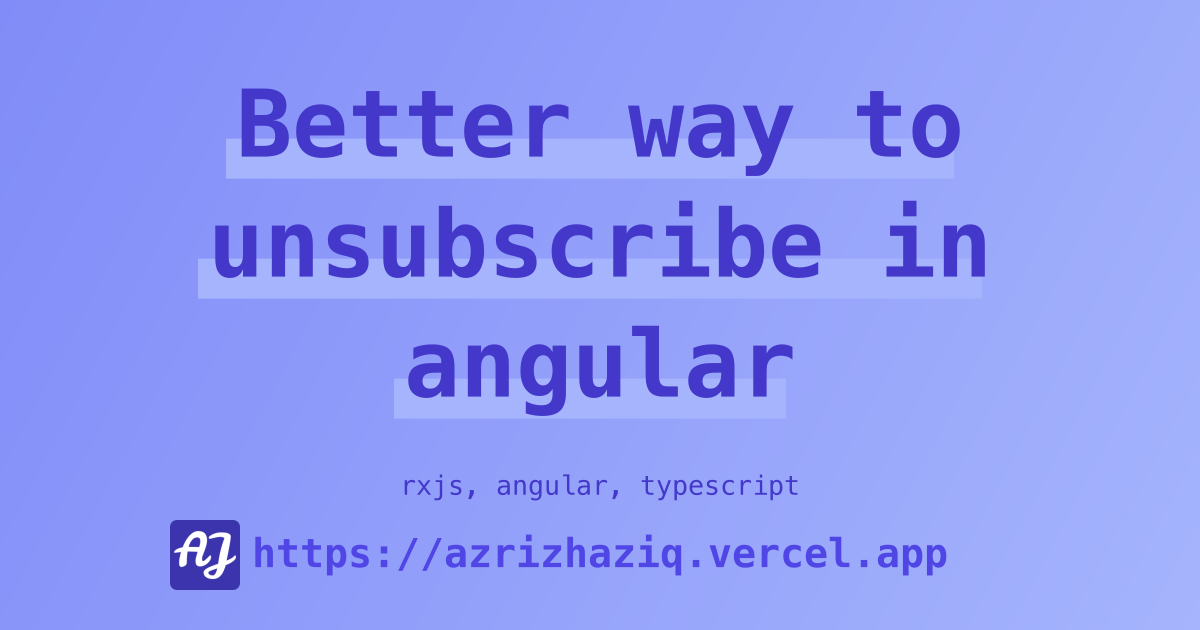
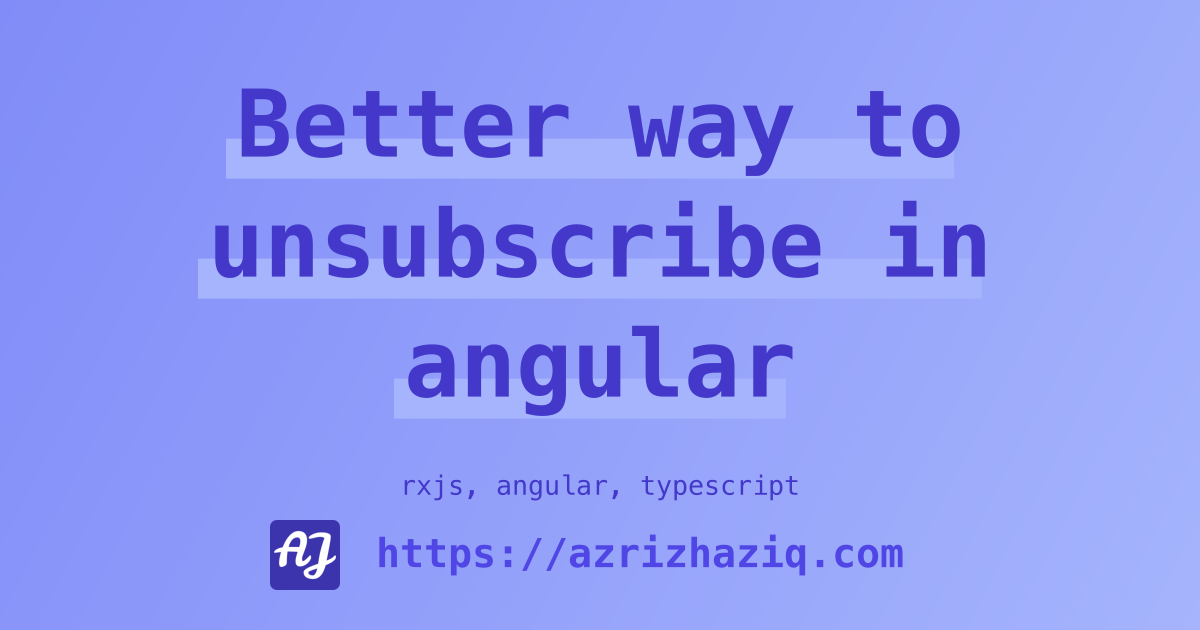
Update domain to azrizhaziq.com
- blog that is published: false will not available at prod env

Changed region(s): [[0.1233, 0.8143, 0.8017, 0.9349]]

diff --git a/helpers/server/get_custom_post.ts b/helpers/server/get_custom_post.ts
@@ -13,22 +13,30 @@ export const getSourceOfFile = (folderName: string) => {
 }
 
 export const getAllCustomPosts = (): Custom.Post[] => {
-  return fs.readdirSync(POSTS_PATH).map(file => {
-    const [published_timestamp, slug] = file.split('_')
-    const source = getSourceOfFile(file)
-    const { data, content } = matter(source)
+  return fs
+    .readdirSync(POSTS_PATH)
+    .map(file => {
+      const [published_timestamp, slug] = file.split('_')
+      const source = getSourceOfFile(file)
+      const { data, content } = matter(source)
 
-    return {
-      type: 'custom_post',
-      id: uuid(),
-      slug,
-      mdxSource: '',
-      reading_time: readingTime(content),
-      published_timestamp: new Date(published_timestamp).toJSON(),
-      title: slug.replace(/-/g, ' '),
-      ...(data as { description: string; tag_list: string[] }),
-    }
-  })
+      // if article is not published and its on production then don't show it
+      if (!data.published && process.env.NODE_ENV === 'production') {
+        return null as any
+      }
+
+      return {
+        type: 'custom_post',
+        id: uuid(),
+        slug,
+        mdxSource: '',
+        reading_time: readingTime(content),
+        published_timestamp: new Date(published_timestamp).toJSON(),
+        title: slug.replace(/-/g, ' '),
+        ...(data as { tag_list: string[]; description: string; published: boolean }),
+      }
+    })
+    .filter(Boolean)
 }
 
 export const getSinglePost = async (slug: string): Promise<Custom.Post> => {
@@ -46,6 +54,11 @@ export const getSinglePost = async (slug: string): Promise<Custom.Post> => {
     const source = getSourceOfFile(`${published_timestamp}_${slug}`)
     const { data, content } = matter(source)
 
+    // if article is not published and its on production then don't show it
+    if (!data.published && process.env.NODE_ENV === 'production') {
+      throw new Error(`Post is not published yet: ${slug}`)
+    }
+
     const mdxSource = await serialize(content, {
       mdxOptions: {
         remarkPlugins: [require('remark-autolink-headings'), require('remark-slug'), require('remark-code-titles')],
@@ -61,7 +74,7 @@ export const getSinglePost = async (slug: string): Promise<Custom.Post> => {
       reading_time: readingTime(content),
       published_timestamp,
       title: slug.replace(/-/g, ' '),
-      ...(data as { description: string; tag_list: string[] }),
+      ...(data as { tag_list: string[]; description: string; published: boolean }),
     }
   } catch (e) {
     throw new Error(`Failed to get Custom Post by slug: ${slug}`)
@@ -82,6 +95,7 @@ export declare module Custom {
     tag_list: string[]
     cover_image?: string
     reading_time: { text: string }
+    published: boolean
     published_timestamp: Date | string
   }
 }

diff --git a/components/Post/Custom/PostList.tsx b/components/Post/Custom/PostList.tsx
@@ -6,7 +6,9 @@ export function CustomPostList({ post }: { post: any }): JSX.Element {
     <article className='relative flex flex-col py-8'>
       <Link href={`/blogs/${post.slug}`}>
         <a className={'space-y-2 text-gray-700 group opacity-80 hover:opacity-100'}>
-          <TimeStamp time={post.published_timestamp} />
+          <span className='text-xs'>
+            <TimeStamp time={post.published_timestamp} />
+          </span>
           <h2 className='flex items-center text-2xl font-medium text-bold'>{post.title}</h2>
           <p className='leading-relaxed hidden! md:block line-clamp-0'>{post.description}</p>
           <div className='flex flex-wrap space-x-1'>

diff --git a/components/Post/Devto/PostList.tsx b/components/Post/Devto/PostList.tsx
@@ -19,7 +19,9 @@ export function DevtoPostList({ post }: { post: Devto.Post }): JSX.Element {
       </a>
       <Link href={`/blogs/${post.slug}`}>
         <a className={'space-y-2 text-gray-700 group opacity-80 hover:opacity-100'}>
-          <TimeStamp time={post.published_timestamp as string} />
+          <span className='text-xs'>
+            <TimeStamp time={post.published_timestamp} />
+          </span>
           <h2 className='flex items-center text-2xl font-medium text-bold'>{post.title}</h2>
           <p className='leading-relaxed hidden! md:block line-clamp-0'>{post.description}</p>
           <div className='flex flex-wrap space-x-1'>

diff --git a/helpers/server/generate-blog-img.ts b/helpers/server/generate-blog-img.ts
@@ -62,10 +62,10 @@ const writeTagInCanvas = (context: NodeCanvasRenderingContext2D, texts: string[]
 const writeFooterInCanvas = async (context: NodeCanvasRenderingContext2D, y: number) => {
   context.fillStyle = getColor(7)
   context.font = 'bold 30pt Menlo'
-  context.fillText('https://azrizhaziq.vercel.app', 600, 530)
+  context.fillText('https://azrizhaziq.com', 640, 530)
 
   const image = await loadImage('./public/android-chrome-192x192.png')
-  context.drawImage(image, 170, y, 70, 70)
+  context.drawImage(image, 270, y, 70, 70)
 }
 
 const getYPos = (rowCount: number) => {

diff --git a/helpers/server/get_devto.ts b/helpers/server/get_devto.ts
@@ -127,7 +127,7 @@ export declare module Devto {
     comments_count: number
     public_reactions_count: number
     page_views_count: number
-    published_timestamp: Date | string
+    published_timestamp: string
     body_markdown: string
     positive_reactions_count: number
     cover_image: string
